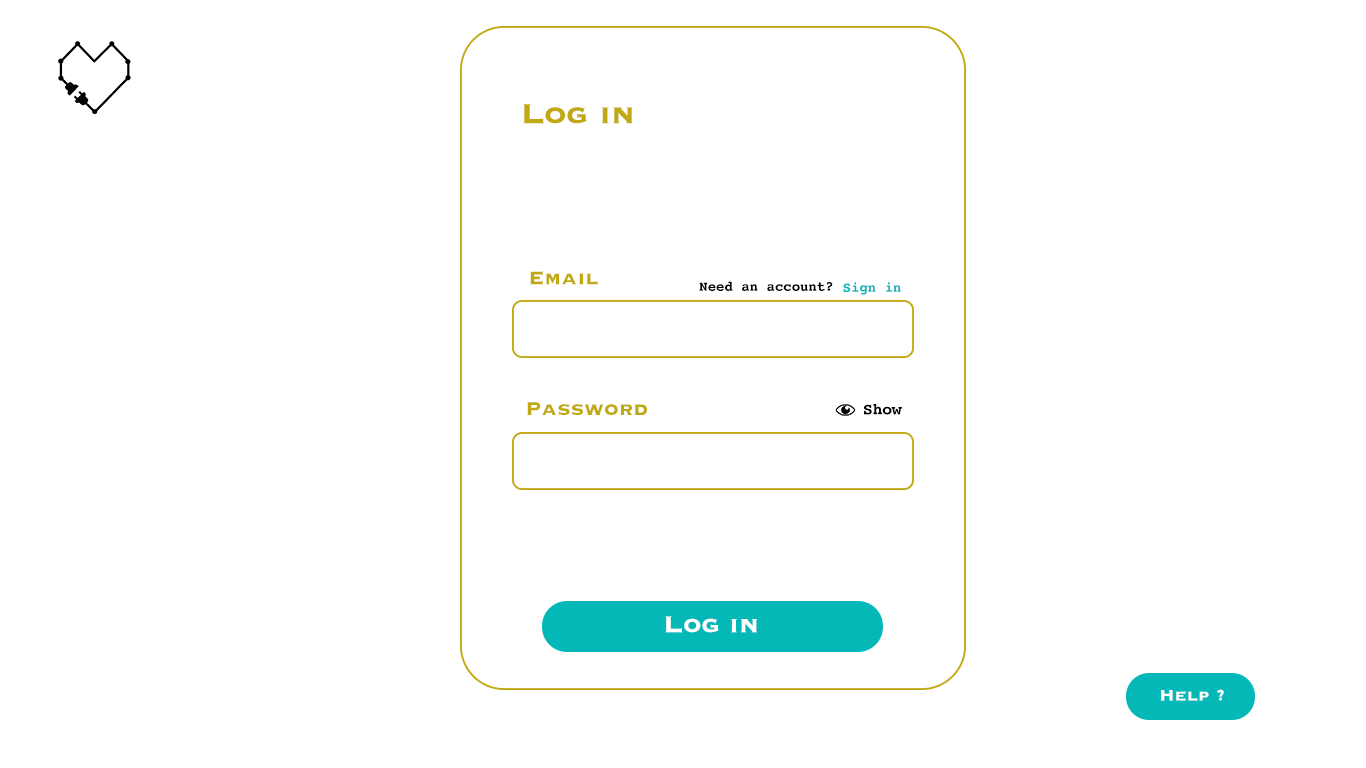
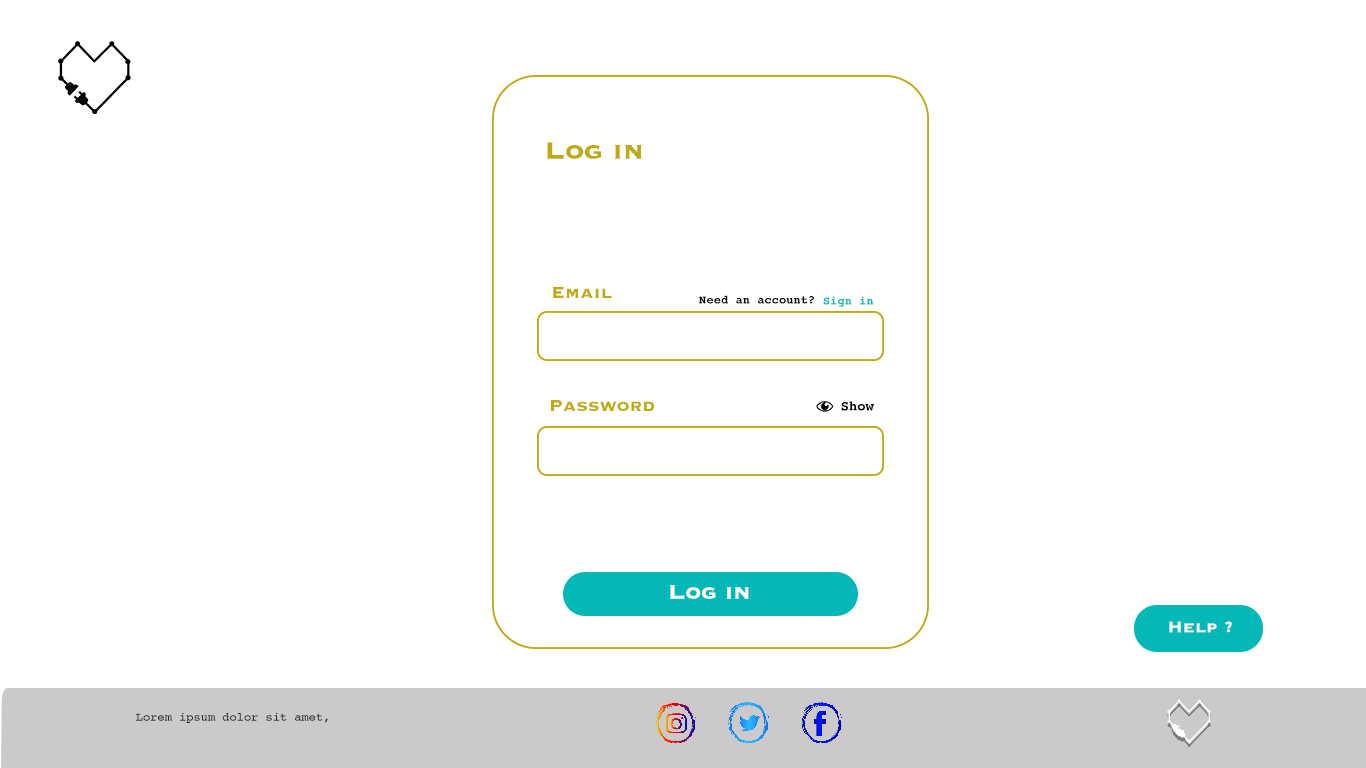
change files

diff --git a/projet1Asbl.html b/projet1Asbl.html
@@ -16,18 +16,16 @@
     <div class="container w-100 p-3">
         <div class="row">
             <div class="col-12">
-                <h1 class="col-12-md-6 text-center text-monospace text-info">Projet-01</h1>
+                <h1 class="col-12 text-monospace text-info">Projet-01</h1>
                 <br><br>
 
-                <h2 class="col-12 text-warning ml-5">Présentation 'Share to Connect'</h2>
+                <h2 class="col-12 text-warning ml-5  text-center">Présentation 'Share to Connect'</h2>
             </div>
         </div>
-        <div class="top-container d-flex align-items-center p-2 bd-highlight">
+        <div class="w-100 container d-flex align-items-center bd-highlight">
 
-            <div class="intro-txt w-50 p-3">
-
-                <div style="background-color: #eee;">
-                    <h5 class="text-success">Pour les Asbl</h5>
+                <div class="w-100 col-12"style="background-color: #eee">
+                    <h5 class="text-success w-50">Pour les Asbl</h5>
                     <p>Plateforme de communication, d'échange et d'organisation.</p>
                     <ul>
                         <li>Possiblité pour les administrateurs Asbl de mettre en ligne (style googlesheets)les dates,
@@ -59,37 +57,45 @@
                     </ul>
                 </div>
 
-            </div>
-
-            <div class="intro-img d-flex flex-column bd-highlight w-50 p-3">
-                <div class="container" style="background-color: darkcyan">
-
-                    <img src="./Communes de Bxl Map copie.png" width="100%" alt="map" usemap="#Communes de Bxl Map"
-                        name="Communes de Bxl Map copie.png">
-
-                    <map name="Communes de Bxl Map">
-                        <area shape="rect" coords="0,0,302,326" alt="map" href="https://www.bruxelles.be/">
-
-                    </map>
-
-
-                </div>
-
-                <div class="h3 text-center">
-                    <p>Exemple carte cliquable ^</p>
-                </div>
-                <div class="container w-75" style="background-color: darkcyan">
-
-                    <img src="./Exemple-select.png" width="100%" alt="map">
-
-                </div>
+           
+            <div class="w-100 h-25">
 
             </div>
+            
         </div>
+        <h3 class="container w-100 ml-4">Landing page</h3>
         <div class="container">
-            <h3>Landing page</h3>
-            <div class="w-100 col-md-offset-1 border border-shaddow d-flex">
+            <div class="w-100 ">
                 <img class="w-100 " src="./projet01Asbl-webMaquette.png" alt="">
+            </div>
+            
+            <h3 class="ml-4">Log in Page</h3>
+            <div class="container mt-4">
+                <div class="row">
+                    <img class="col-6" src="./Log-in ShareToConnect copie.png" alt="">
+                    <div style="background-color: #eee;" class="col-5 p-3">
+                        <p>Chaque ASBL qui aura choisit de regiondre le réseau devra s'inscrire pour pouvoir etre administrateur.<br>Il pourra alors :
+                            <ul>
+                                <li>Inscrire ses équipes en ligne</li>
+                                <li>Avoir accès au forum asbl(échange, entraide, organisation)</li>
+                                <li>Déposer des annonces bénévoles</li>
+                                <li>Créer des événements</li>
+                            </ul> 
+
+                        </p>
+                    </div>
+                </div>
+            </div>
+            <h3 class="title ml-4">Select Commune User</h3>
+            <div class="">
+                <div class="contenu d-flex mt-4">
+                    <div style="background-color: #eee;">
+                        <p class="w-50 m-5">Lorsqu'un user à séléctionné une commune il a accès aux informations concernant le secteur et peut adapter son inscrition en fonction des besoins. </p>
+                    </div>
+                    <img class="w-50" src="./SelectCommuneUserShareToConnect.png" alt="">
+
+
+                </div>
             </div>
         </div>
 
@@ -112,6 +118,26 @@
             <li></li>
             <li></li>
         </ul>
+
+    </div>
+    <div class="col-5 d-flex flex-column bd-highlight">
+        <div class="container" style="background-color: darkcyan">
+
+            <img src="./Communes de Bxl Map copie.png" width="100%" alt="map" usemap="#Communes de Bxl Map"
+                name="Communes de Bxl Map copie.png">
+
+            <map name="Communes de Bxl Map">
+                <area shape="rect" coords="0,0,302,326" alt="map" href="https://www.bruxelles.be/">
+
+            </map>
+
+
+        </div>
+
+        <div class="h3 text-center">
+            <p>Click là ^</p>
+        </div>
+       
 
     </div>
 </body>

diff --git a/css/projet1Asbl-custom.css b/css/projet1Asbl-custom.css
@@ -1,0 +1,11 @@
+body{
+    width: 100%;
+}
+div{
+    margin: 20px;
+}
+h2, h3, h4, h5{
+    margin-top: 20px;
+    margin-bottom: 20px;
+
+}
